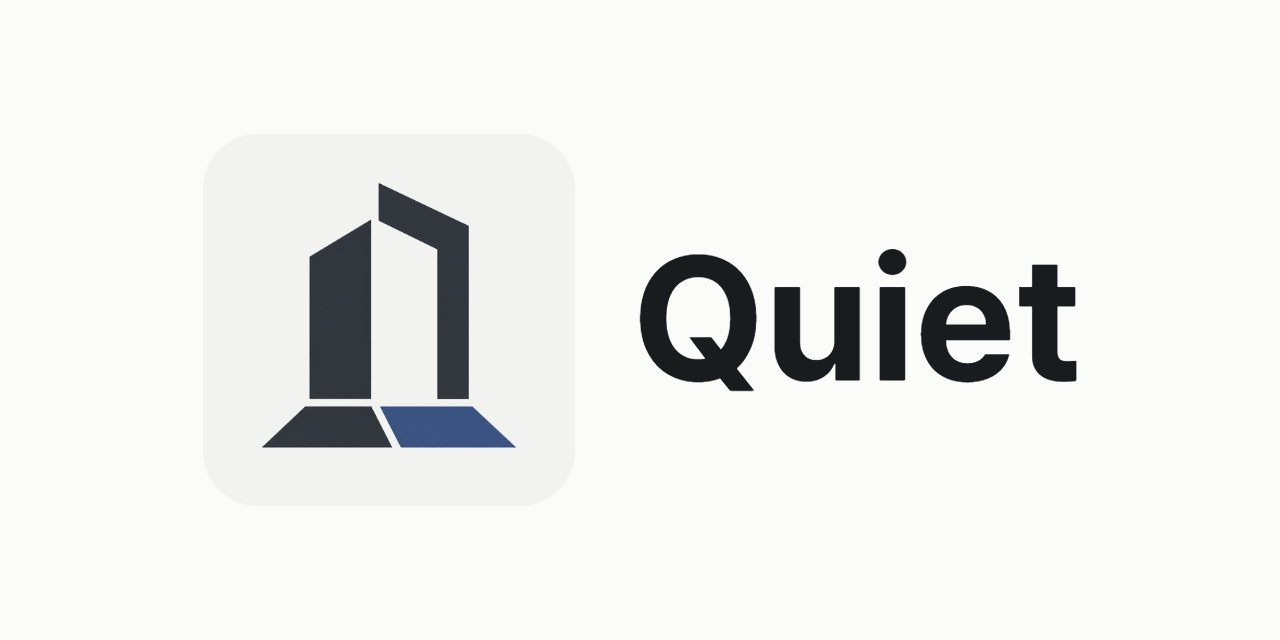
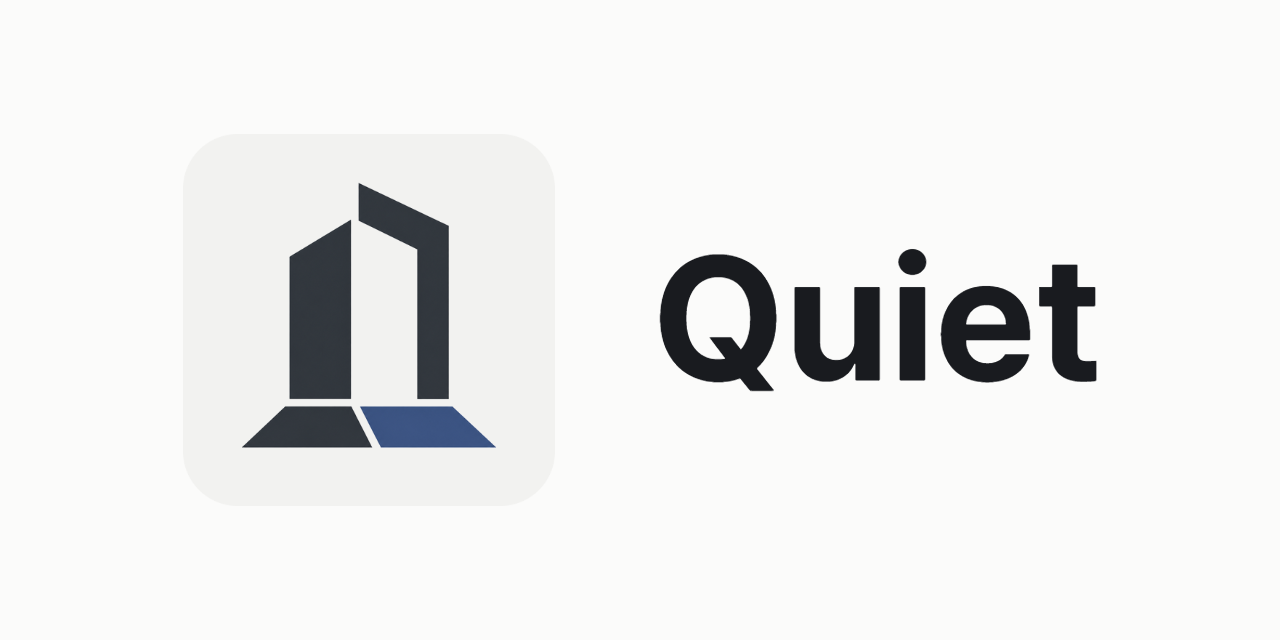
docs: give the social card's mark and name room between them
- widen the gap from 64 to 104, and say what it is measured from
- the tile carries its own margin, so the building stands 60px further
  in again -- but the tile is a visible face against the paper and the
  eye takes its edge as the edge, which left the "Q" reading as stuck
  to it
- compared 64, 84, 104 and 124 rendered: past about 130 the pair stops
  being one object
- margins stay even, 183 against 183, since the block is centred on what
  it measures

Changed region(s): [[0.5, 0.375, 0.875, 0.625], [0.2188, 0.2812, 0.4062, 0.7188], [0.1875, 0.6562, 0.2188, 0.7188]]

diff --git a/scripts/make-social.html b/scripts/make-social.html
@@ -59,7 +59,12 @@
   // it, so the drawn box has to be larger than the artwork is meant to look.
   // At 224 the building stood barely taller than the word beside it.
   const MARK = 372;
-  const GAP = 64;             // mark to word
+  // Mark to word. Measured from the tile's edge, not from the building inside
+  // it: the tile carries about a sixth of its own width as margin, so the
+  // building stands 60px further in again -- but the tile is a visible face
+  // against the paper, and the eye takes its edge as the edge. At 64 the "Q"
+  // read as stuck to it. Past about 130 the two stop being one object.
+  const GAP = 104;
   const TITLE = 176;
 
   function draw(mark) {
